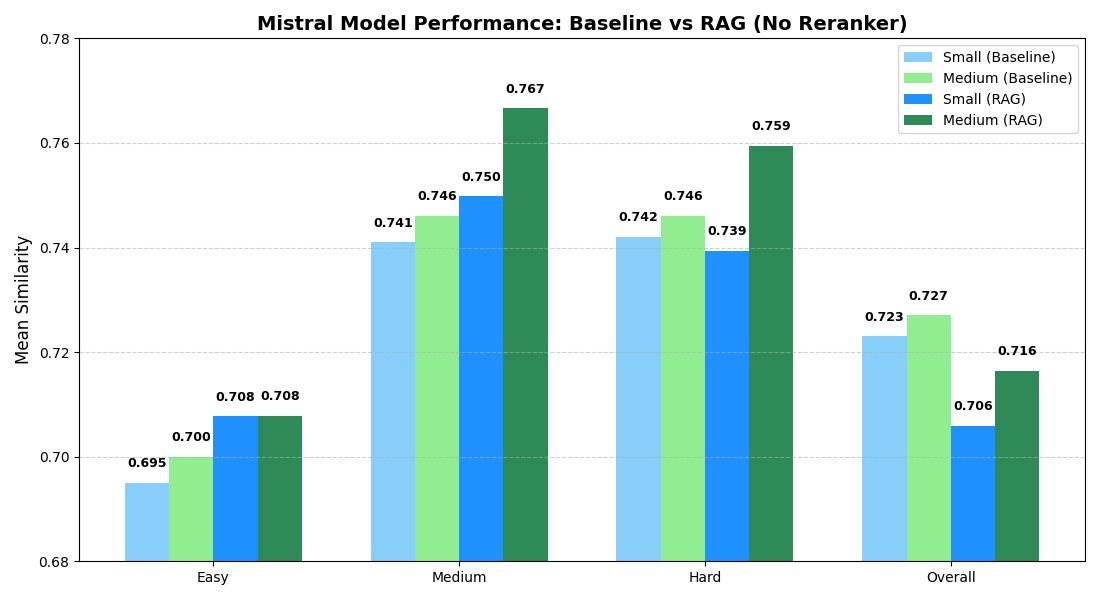
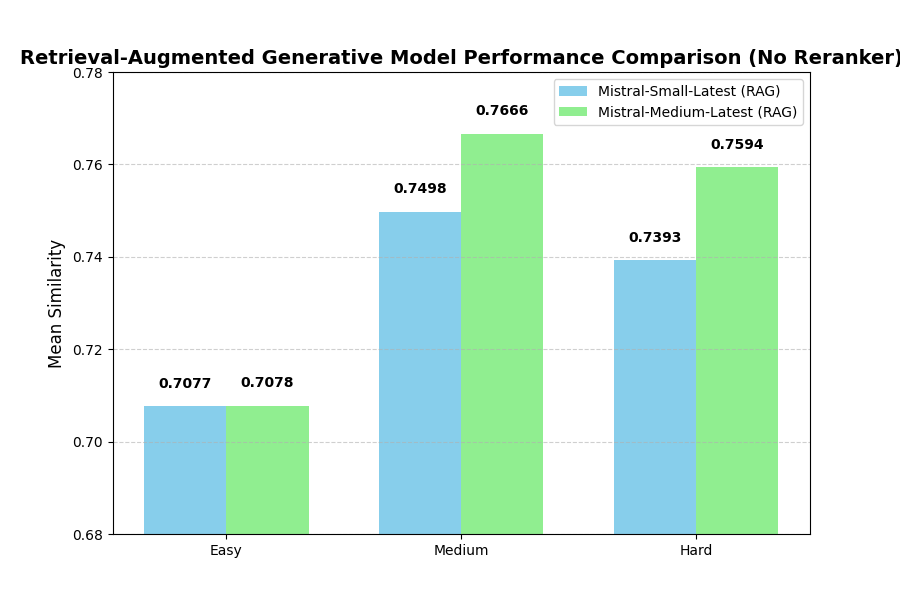
progress

diff --git a/analysis/task3.py b/analysis/task3.py
@@ -225,9 +225,9 @@ import matplotlib.pyplot as plt
 import numpy as np
 
 # Data
-categories = ["Easy", "Medium", "Hard", "Overall"]
-mistral_small_rag = [0.7077, 0.7498, 0.7393, 0.7059]
-mistral_medium_rag = [0.7078, 0.7666, 0.7594, 0.7164]
+categories = ["Easy", "Medium", "Hard"]
+mistral_small_rag = [0.7077, 0.7498, 0.7393]
+mistral_medium_rag = [0.7078, 0.7666, 0.7594]
 
 x = np.arange(len(categories))
 width = 0.35

diff --git a/CASE_ANALYSIS.md b/CASE_ANALYSIS.md
@@ -1,19 +1,37 @@
 # Chunking Strategy Performance (Text Preprocessing and Index Selection)
 
+**Figure 1** - The relevant chunk accuracy between fixed-length (100 characters per chunk, maximum 10 characters overlapping) and sentence-based (3 sentences per chunk, maximum 1 overlapping sentence) chunking strategies.
+
 ![img1.png](img/img1.png)
+
+Figure 1 shows that sentence-based chunking performs with significantly higher accuracy (0.89) than fixed-length chunking (0.45). This improvement likely occurs because sentence-based chunking respects natural linguistic boundaries, keeping contextually related ideas together. In contrast, fixed-length chunking can arbitrarily split sentences or phrases, causing semantic fragmentation that reduces retrieval precision and overall contextual coherence.
 
 # Generative Model Performance Comparison (Baseline Selection)
 
+**Figure 2** - Generative Model Performance Comparison without RAG.
+
 ![img2.png](img/img2.png)
+
+Figure 2 shows that for all question types, the Medium model consistently beats the Small model. This holds true even for questions that were relatively easy, likely because the Medium model’s larger parameter count enables it to capture more nuanced patterns in language and reasoning. As a result, it can generate more precise and contextually appropriate responses, while the Small model tends to produce shorter, less detailed outputs and sometimes misses subtle contextual cues that affect accuracy.
 
 # Retrieval-Augmented Generative Model Performance Comparison (Architecture Selection)
 
+**Figure 3** - Mistral Model Performance with no RAG vs with RAG (No Reranker).
+
 ![img3.png](img/img3.png)
+
+Figure 3 shows mixed results for the Small model, while the Medium model with RAG consistently outperforms its non-RAG counterpart. For easy and medium questions, the Small model benefits from RAG, achieving higher accuracy than without it. However, for harder questions and overall performance, the Small model with RAG performs worse. This may be because, when presented with additional retrieved information, the smaller model becomes overwhelmed or confused—its limited parameter capacity makes it less effective at integrating and reasoning over complex contextual data. The medium model, on the other hand, has more parameters so it does not have this struggle and therefore can perform with higher accuracy.
 
 # Reranker Performance Comparison (Architecture Selection)
 
+**Figure 4** - Performance comparison between different types of rerankers.
+
 ![img4.png](img/img4.png)
 
+Figure 4 shows LLM-Reranker outperforms all other rankers across models. In addition, while the accuracy in between reranker types have subtle differences, there is a significant improvement of accuracy when comparing any reranker with no reranker. This shows that using any reranker is generally worth 
+
 # Optimize the Number of Retrieved Chunks (Parameter Configuration)
+
+**Figure 5** - 
 
 ![img5.png](img/img5.png)
